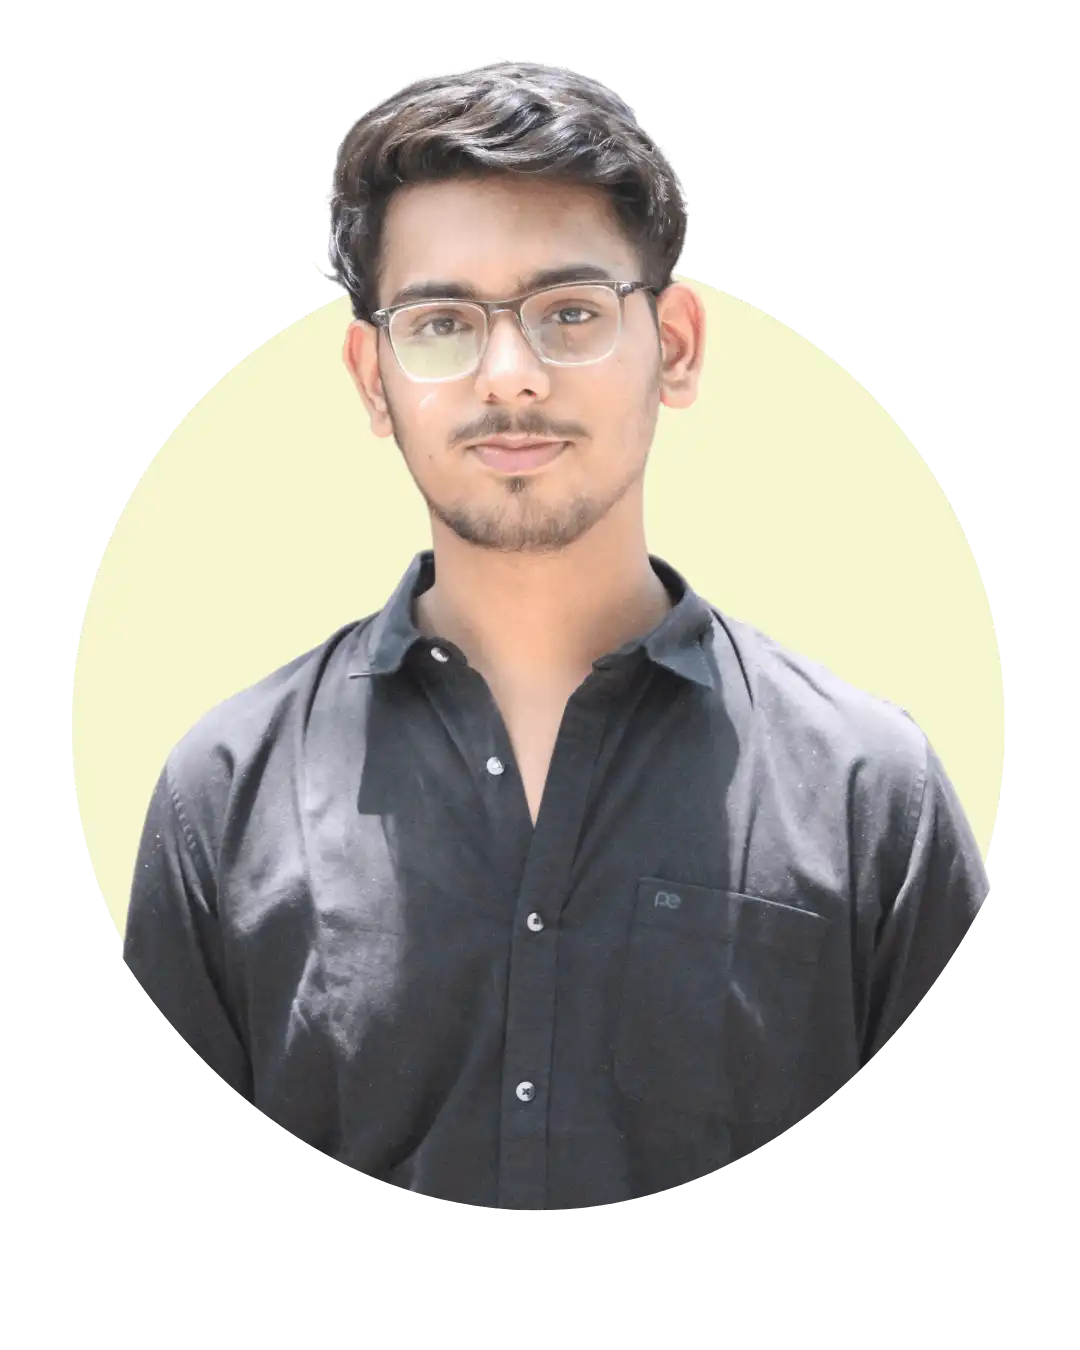
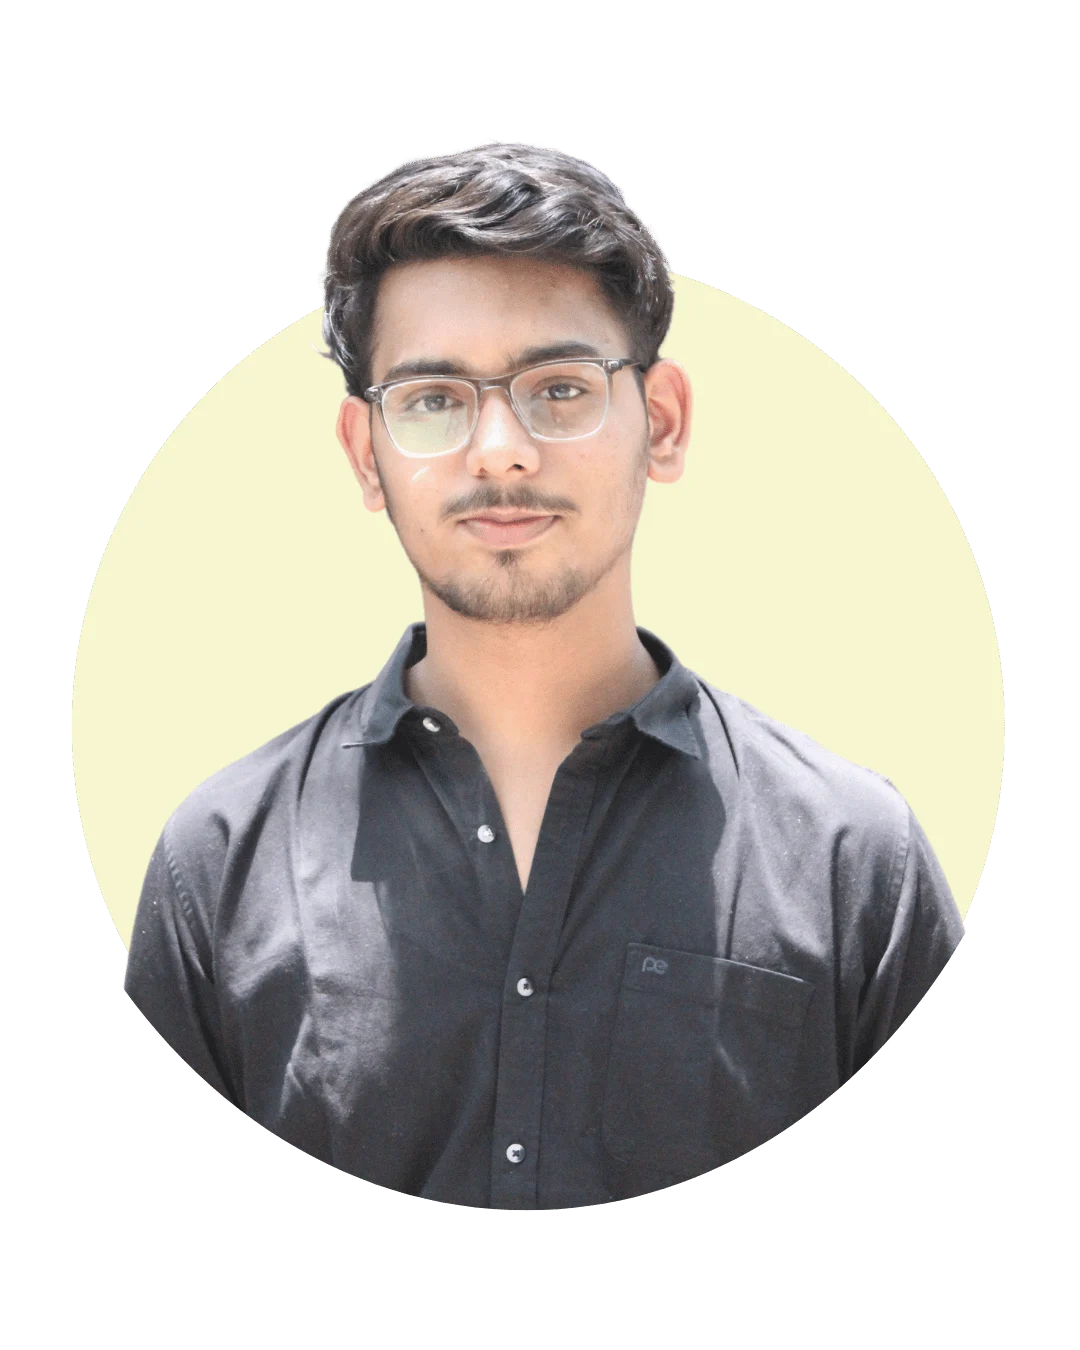
img

diff --git a/src/components/Hero.jsx b/src/components/Hero.jsx
@@ -60,7 +60,7 @@ const Hero = () => {
       </div>
       <div className="flex-1 flex justify-center sm:justify-end">
         <img
-          src="https://vxtr.netlify.app/.netlify/images?url=/assets/me.webp&w=800&q=80"
+          src={me}
           width={250}
           height={250}
           className="w-50 xs:w-60 sm:w-52 lg:w-96 h-auto rounded-full"
